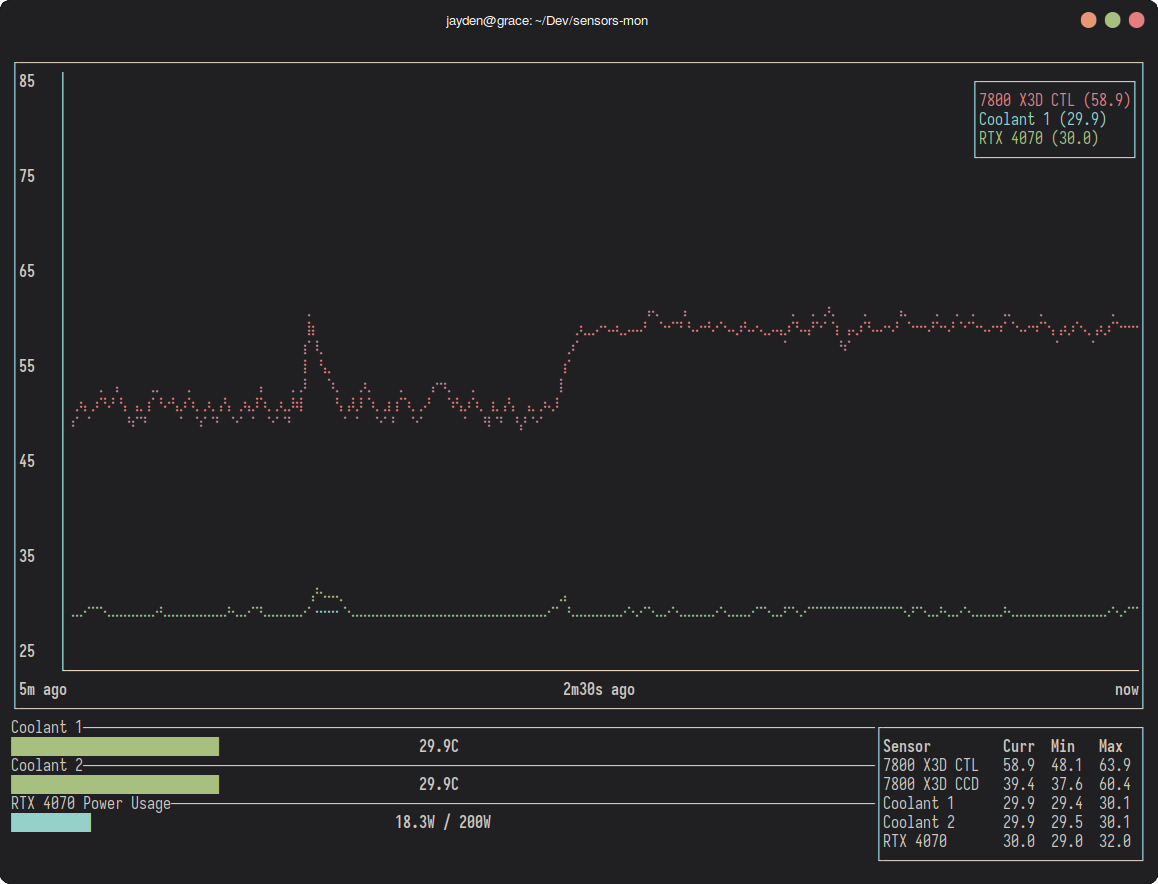
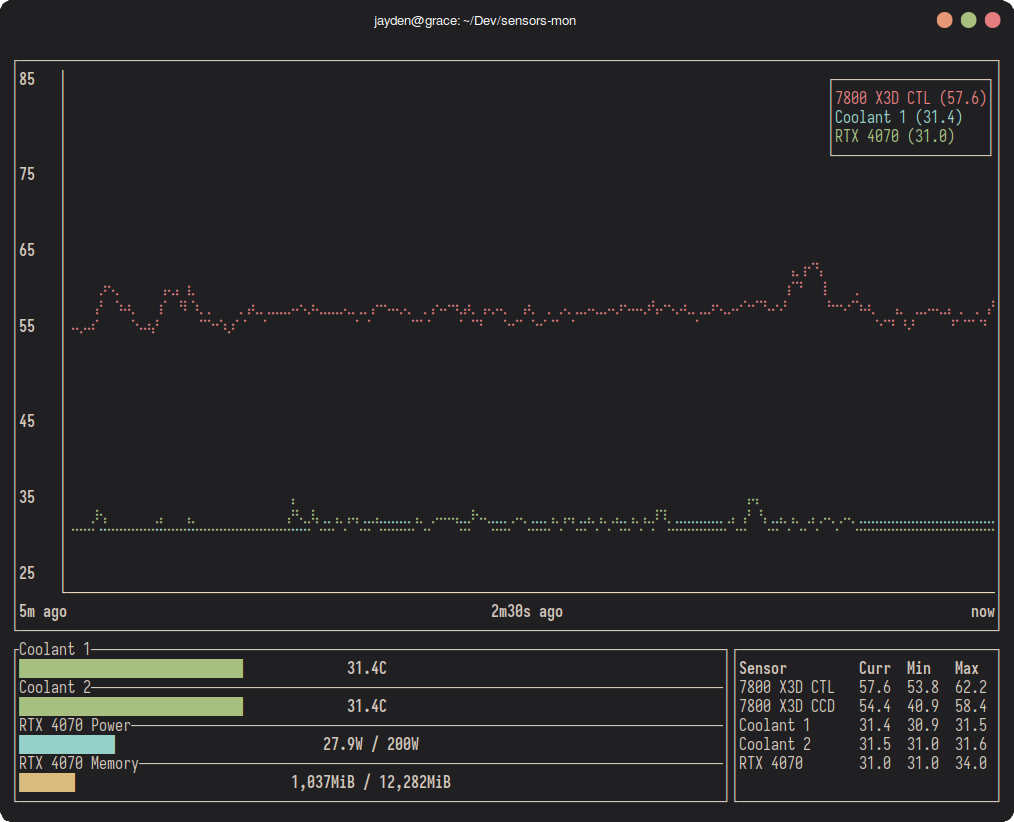
feat: surround gauges section with border

diff --git a/src/main.rs b/src/main.rs
@@ -11,7 +11,8 @@ use ratatui::{
     symbols,
     text::Span,
     widgets::{
-        Axis, Block, Borders, Chart, Dataset, Gauge, GraphType, Row, Table,
+        Axis, Block, Borders, Chart, Dataset, Gauge, GraphType, Padding, Row,
+        Table,
     },
     DefaultTerminal, Frame,
 };
@@ -269,7 +270,7 @@ impl App {
 
     fn draw(&self, frame: &mut Frame) {
         let [top, bottom] =
-            Layout::vertical([Constraint::Fill(1), Constraint::Length(8)])
+            Layout::vertical([Constraint::Fill(1), Constraint::Length(9)])
                 .areas(frame.area());
 
         let [bottom_left, bottom_right] =
@@ -278,10 +279,10 @@ impl App {
 
         let [bottom_left_1, bottom_left_2, bottom_left_3, bottom_left_4] =
             Layout::vertical([
-                Constraint::Percentage(25),
-                Constraint::Percentage(25),
-                Constraint::Percentage(25),
-                Constraint::Percentage(25),
+                Constraint::Length(2),
+                Constraint::Length(2),
+                Constraint::Length(2),
+                Constraint::Length(3),
             ])
             .areas(bottom_left);
 
@@ -290,12 +291,12 @@ impl App {
 
         let c1 = self.coolant1.last().unwrap().1;
         let b1 = Block::default()
-            .borders(Borders::TOP)
-            .title(COOLANT_1_LABEL);
+            .borders(Borders::LEFT | Borders::RIGHT)
+            .padding(Padding::new(0, 0, 1, 0));
 
         let c2 = self.coolant1.last().unwrap().1;
         let b2 = Block::default()
-            .borders(Borders::TOP)
+            .borders(Borders::TOP | Borders::LEFT | Borders::RIGHT)
             .title(COOLANT_2_LABEL);
 
         self.render_coolant_gauge(c1, b1, frame, bottom_left_1);
@@ -308,6 +309,10 @@ impl App {
             frame,
             bottom_left_4,
         );
+
+        // enclosing border for bottom left gauges
+        let b = Block::bordered().title(COOLANT_1_LABEL);
+        frame.render_widget(b, bottom_left);
     }
 
     fn render_coolant_gauge(
@@ -348,7 +353,7 @@ impl App {
         let g1 = Gauge::default()
             .block(
                 Block::default()
-                    .borders(Borders::TOP)
+                    .borders(Borders::TOP | Borders::LEFT | Borders::RIGHT)
                     .title("RTX 4070 Power"),
             )
             .gauge_style(Color::Blue)
@@ -375,11 +380,7 @@ impl App {
         );
 
         let g1 = Gauge::default()
-            .block(
-                Block::default()
-                    .borders(Borders::TOP)
-                    .title("RTX 4070 Memory"),
-            )
+            .block(Block::bordered().title("RTX 4070 Memory"))
             .gauge_style(Color::Yellow)
             .ratio((used as f64 / total as f64).clamp(0.0, 1.0))
             .label(label);
